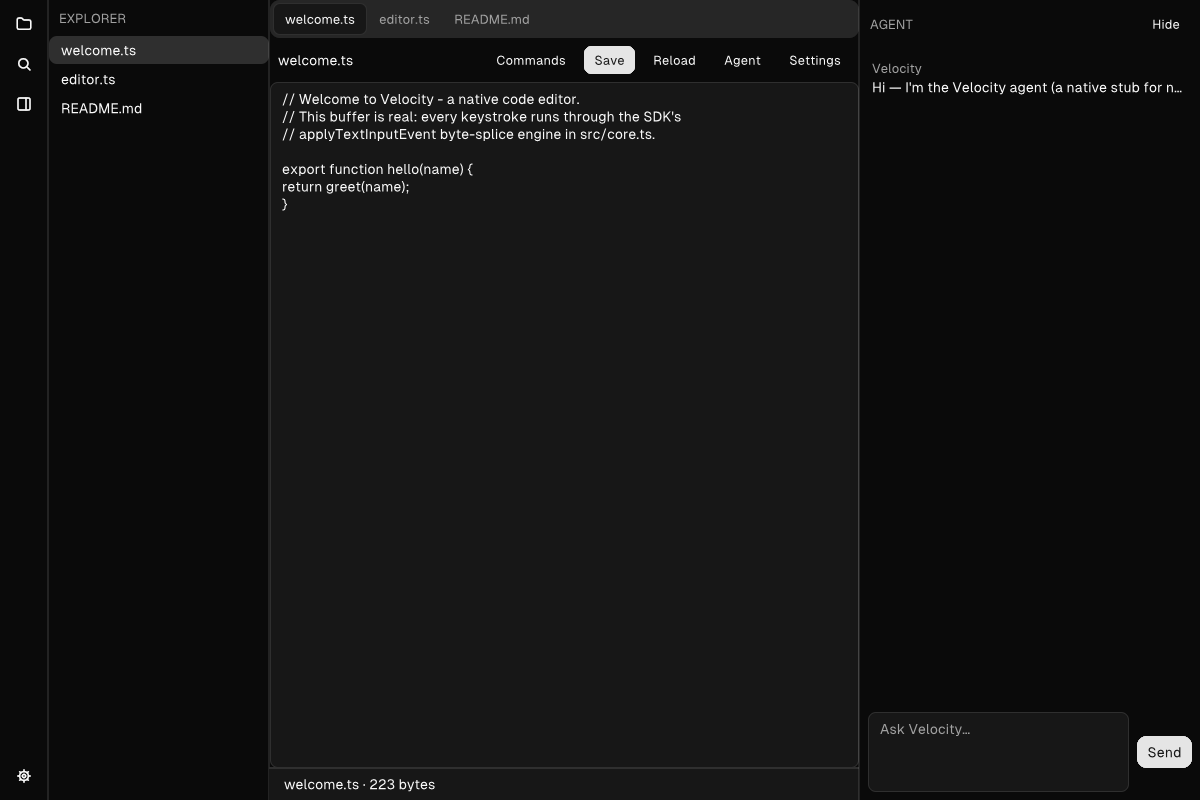
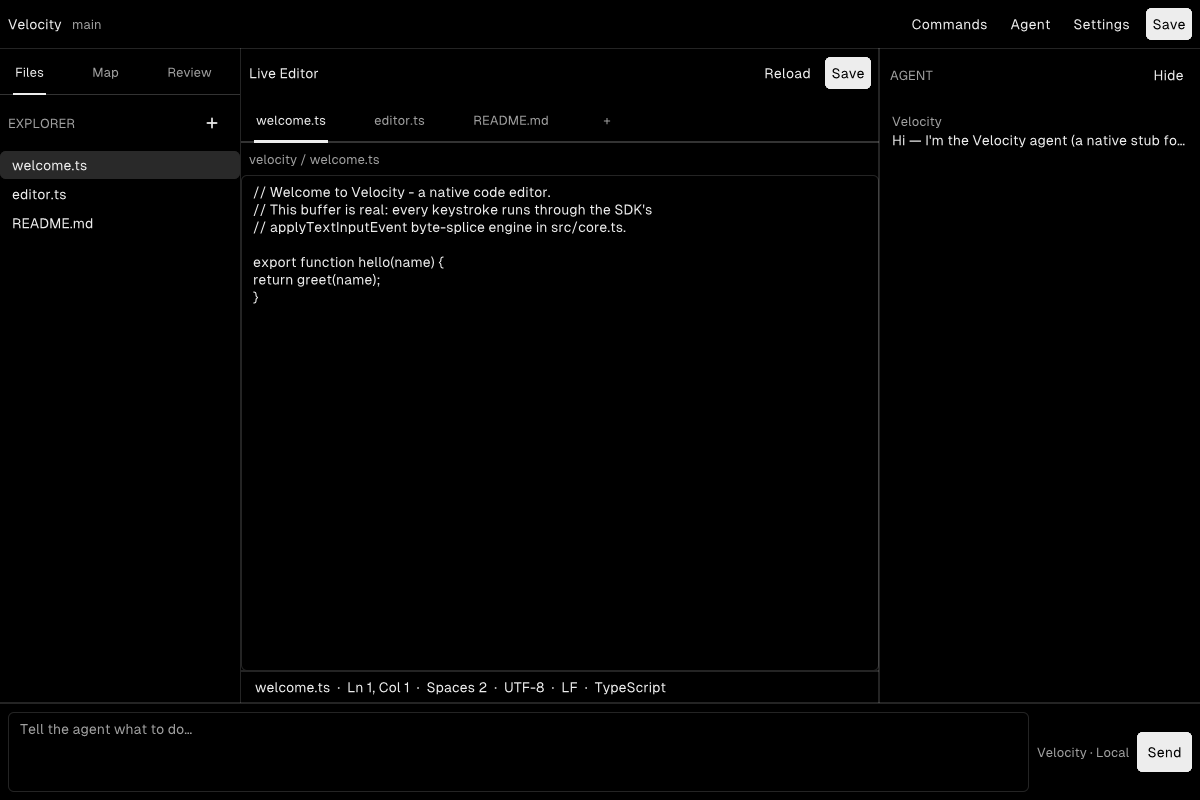
ui: restyle the workbench to echo the original web app (Geist/v0)
- app.zon: theme = "geist" — the web app's design register (monochrome
  primaries, cool neutral scale, blue focus, Geist type/ladder/radii)
- core.ts: SidebarTab (files/map/review) + sidebar_* messages
- app.native: reworked editor layout to match apps/web —
  * top bar (workspace + branch | Commands/Agent/Settings/Save)
  * Files/Map/Review sidebar tabs + EXPLORER header + file tree
  * 'Live Editor' panel header + tab strip + breadcrumb + rich status bar
    (Ln/Col, Spaces, UTF-8, LF, TypeScript)
  * bottom 'Tell the agent what to do…' composer bar (model label + Send)
  * agent thread moves to a toggleable right pane; single composer
- verified via automation: renders (widget_nodes=60, 0 errors), all sections
  present; refreshed docs screenshot

diff --git a/apps/desktop/src/core.ts b/apps/desktop/src/core.ts
@@ -9,6 +9,9 @@ import { type TextInputEvent, type TextEditState, applyTextInputEvent } from "@n
 // Which top-level screen the workbench shows.
 export type Screen = "editor" | "settings";
 
+// The left sidebar's active tab (Files / Map / Review, like the web app).
+export type SidebarTab = "files" | "map" | "review";
+
 // The last filesystem-effect outcome, shown in the status bar.
 export type SaveStatus = "none" | "saved" | "save_failed" | "reloaded" | "reload_failed";
 
@@ -100,6 +103,7 @@ const CATEGORIES: readonly Category[] = [
 export interface Model {
   // Workbench
   readonly screen: Screen;
+  readonly sidebar: SidebarTab;
   // Editor: the open files and which one is active + its live edit buffer
   readonly files: readonly FileEntry[];
   readonly activeFile: number;
@@ -126,6 +130,7 @@ export interface Model {
 export function initialModel(): [Model, Cmd<Msg>] {
   const model: Model = {
     screen: "editor",
+    sidebar: "files",
     files: FILES,
     activeFile: 0,
     nextFileId: 3,
@@ -254,6 +259,9 @@ export type Msg =
   | { readonly kind: "boot_missing"; readonly error: Uint8Array }
   | { readonly kind: "open_palette" }
   | { readonly kind: "close_palette" }
+  | { readonly kind: "sidebar_files" }
+  | { readonly kind: "sidebar_map" }
+  | { readonly kind: "sidebar_review" }
   | { readonly kind: "toggle_agent" }
   | { readonly kind: "compose_edit"; readonly edit: TextInputEvent }
   | { readonly kind: "send_message" }
@@ -402,6 +410,12 @@ export function update(model: Model, msg: Msg): Model | [Model, Cmd<Msg>] {
       return { ...model, paletteOpen: true };
     case "close_palette":
       return { ...model, paletteOpen: false };
+    case "sidebar_files":
+      return { ...model, sidebar: "files" };
+    case "sidebar_map":
+      return { ...model, sidebar: "map" };
+    case "sidebar_review":
+      return { ...model, sidebar: "review" };
     case "toggle_agent":
       return { ...model, agentOpen: !model.agentOpen, paletteOpen: false };
     case "compose_edit": {